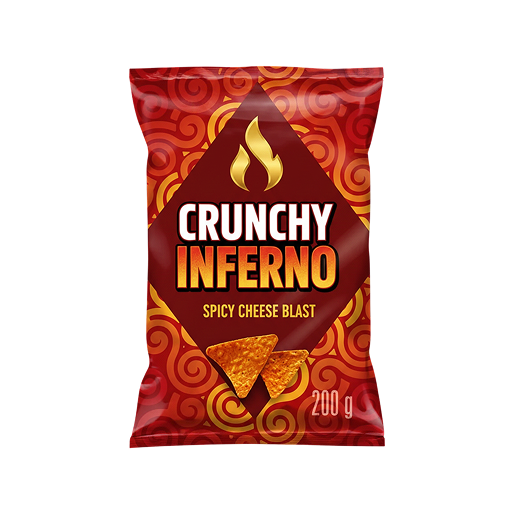
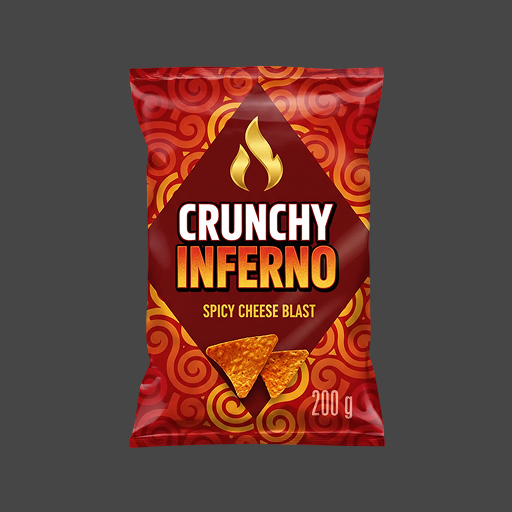
Give the before example a solid background for a clearer comparison
Both before/after were transparent PNGs, so on GitHub's white page the
diff just looked like a resize. Flattening "before" onto gray makes the
background-removal step visible; "after" stays transparent to show the
clean cutout. Also drops a stale "renamed sequentially" line from the
intro (naming defaults to original filenames now).

diff --git a/README.md b/README.md
@@ -2,8 +2,8 @@
 
 A small AI-assisted tool that takes 100+ inconsistent product photos (different
 backgrounds, sizes, padding) and turns them into a uniform set of icon assets —
-background removed, product centered, sized to fit consistently inside a 60×60
-circular slot, and renamed sequentially.
+background removed, product centered, and sized to fit consistently inside a
+60×60 circular slot.
 
 Built for a specific need: a Figma prototype needed 100+ product images to look
 visually consistent inside circular icon slots. Rather than editing each one by
